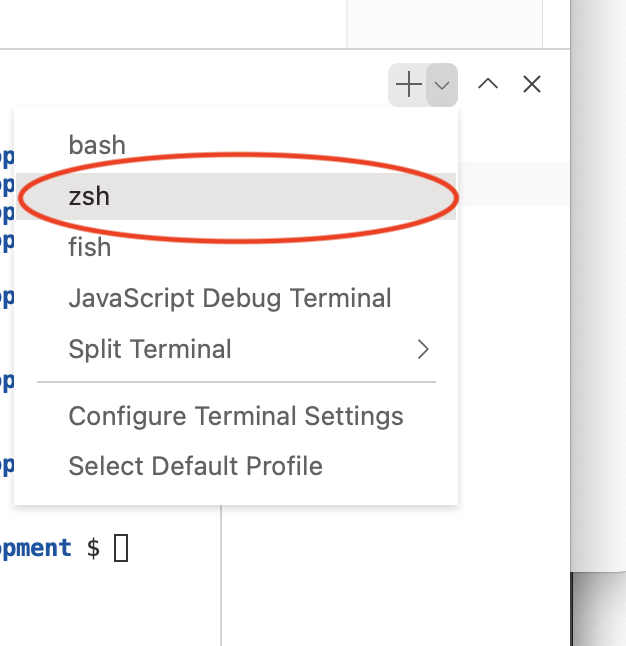
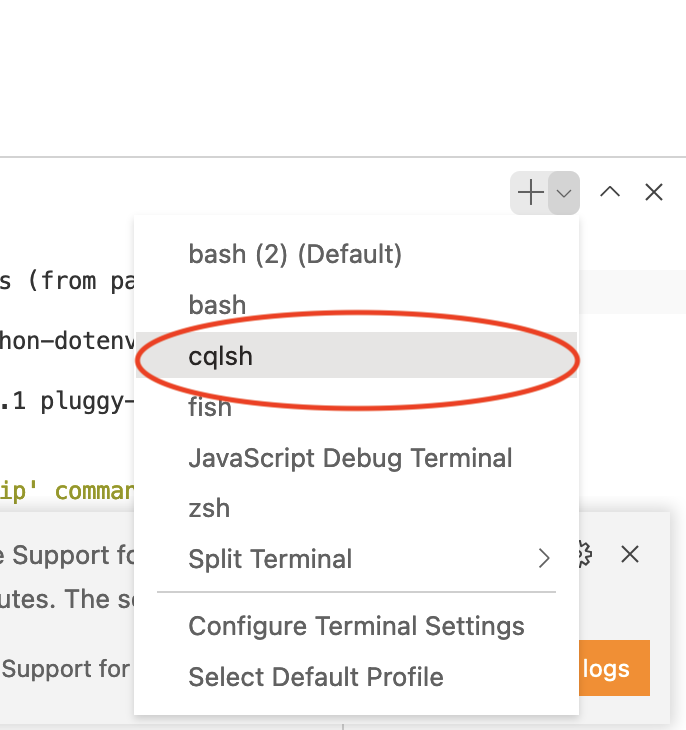
merge and cleanup

diff --git a/week4-api-microservices/README.MD b/week4-api-microservices/README.MD
@@ -380,11 +380,11 @@ FXHtFByhHAjqNjdcLgZNYEll@cqlsh>
 ```
 
 
-We will refer to this as the `CQL shell` (`python2`) and the original shell as the `Gitpod terminal` (`bash ..`). You can click on those tabs to switch between the shells.
+We will refer to this as the `CQL shell` (`cqlsh`) and the original shell as the `Gitpod terminal` (`bash ..`). You can click on those tabs to switch between the shells. The image below shows clicking back on the `bash` shell.
 
 ![dotenv](images/dotenv4.png?raw=true)
 
-**OPTIONAL:** You coud also `split terminal` and have both the `bash` and `cqlsh` side-by-side as shown below rather than clicking on the respective tabs.
+**OPTIONAL:** You coud also `split terminal` and have both the `bash` and `cqlsh` side-by-side as shown below rather than clicking back on the respective tabs. 
 
 ![dotenv](images/dotenv5.png?raw=true)
 

diff --git a/week4-api-microservices/java/README.MD b/week4-api-microservices/java/README.MD
@@ -93,7 +93,7 @@ Lets drop the table if it exists and create anew in the `cqlsh` console with the
 drop table if exists todos.todoitems;
 ```
 
-You can ignore `timeout error` if it happens.
+If you run into a `timeout error` rerun this command and **confirm that the table is dropped** (we changed the data model slightly so its imperative the table is dropped).
 
 Back in the Gitpod terminal `bash` tab
 

diff --git a/week4-api-microservices/python/README.MD b/week4-api-microservices/python/README.MD
@@ -98,6 +98,8 @@ SUCCESS
 ========================================
 ```
 
+If you run into a timeout error rerun this command and confirm that the table is dropped (we changed the data model slightly so its imperative the table is dropped).
+
 ### ✅ Validate Schema with Cqlsh
 
 - Open a terminal `cqlsh` to open a cqlsh shell (we overrided .zshrc to give you that feature)

diff --git a/week4-api-microservices/javascript/README.MD b/week4-api-microservices/javascript/README.MD
@@ -95,6 +95,8 @@ SUCCESS
 ========================================
 ```
 
+If you run into a timeout error rerun this command and confirm that the table is dropped (we changed the data model slightly so its imperative the table is dropped).
+
 ### ✅ Validate Schema with CqlSH
 
 - Open a terminal `zsh` to open a cqlsh shell (we overrided .zshrc to give you that feature)
